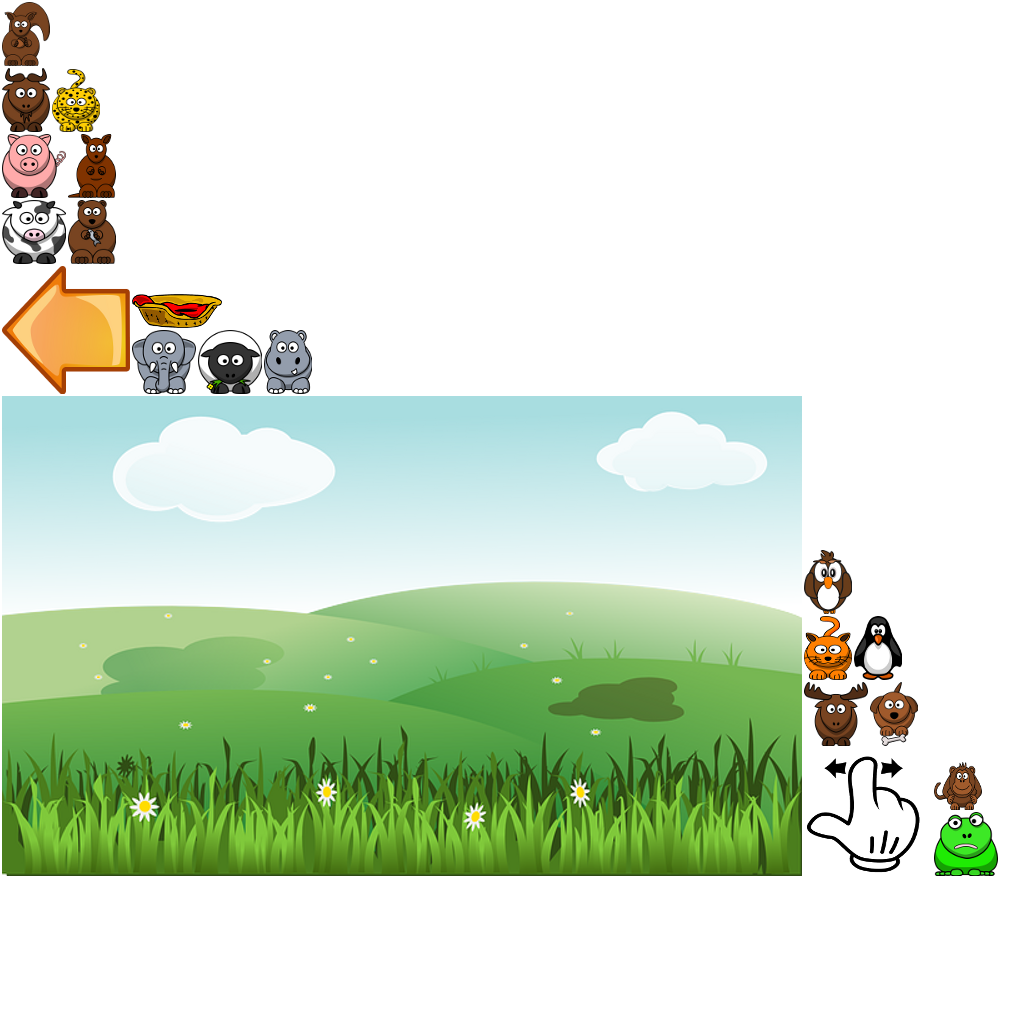
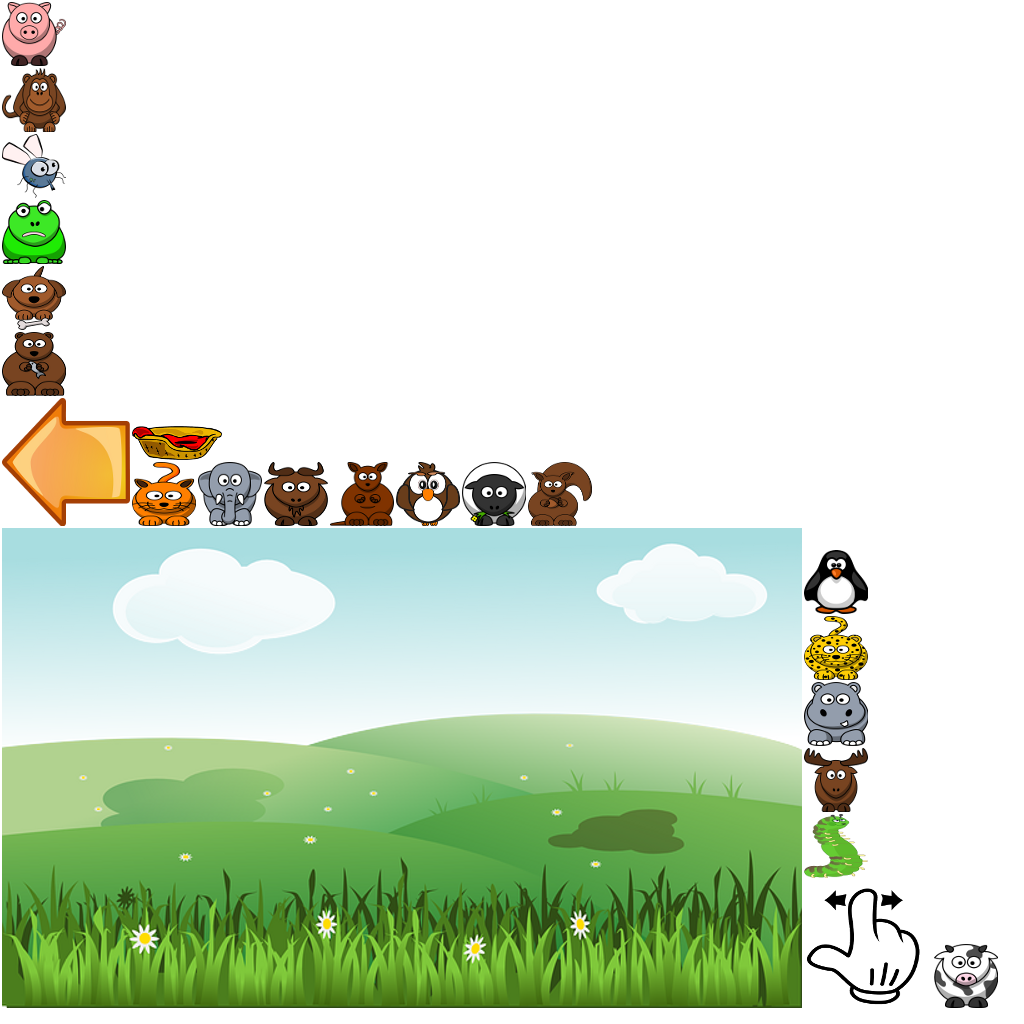
Bug in the game

diff --git a/core/src/com/ricardorb/screens/GameScreen.java b/core/src/com/ricardorb/screens/GameScreen.java
@@ -45,8 +45,10 @@ public class GameScreen implements Screen {
 	private Music rainMusic;
 	private Array<Animal> rainAnimals;
 	private float lastAnimalTime;
+	private float lastBugTime;
 	private int animalsGathered;
 	private Sound animalCatch;
+	private Sound bugCatch;
 	private Stage stage;
 	private TextButton btnX;
 	private Table leftTable;
@@ -63,14 +65,16 @@ public class GameScreen implements Screen {
 	private static final int MAXANIMALSLOST = 5;
 	private int countAnimalLost;
 	private int animalNum;
+	private float elapseTimeAnimal;
 	
-
+	
 	public GameScreen(CatchAnimals game) {
 		mainGame = game;
 		animalNum = 0;
 		animalsForSeconds = 1;
 		countAnimalLost = 0;
 		lastAnimalTime = 0;
+		elapseTimeAnimal = 0.0325f;
 		conBasket = new ControllerBasket();
 		inpBasket = new InputBasket(conBasket, mainGame);
 		basket = new Basket(mainGame, conBasket);
@@ -86,6 +90,7 @@ public class GameScreen implements Screen {
 		camera = new OrthographicCamera();
 		background = new Sprite(Assets.landscape);
 		animalCatch = Gdx.audio.newSound(Gdx.files.internal(Assets.effects + "cow.ogg"));
+		bugCatch = Gdx.audio.newSound(Gdx.files.internal(Assets.effects + "bug.ogg"));
 		rainMusic = Gdx.audio.newMusic(Gdx.files.internal(Assets.music + "rain.mp3"));
 		
 		rainMusic.setLooping(true);
@@ -129,6 +134,7 @@ public class GameScreen implements Screen {
 		animalNum = animalCount;
 		countAnimalLost = 0;
 		lastAnimalTime = 0;
+		elapseTimeAnimal = 0.0325f;
 		conBasket = new ControllerBasket();
 		inpBasket = new InputBasket(conBasket, mainGame);
 		basket = new Basket(mainGame, conBasket);
@@ -144,6 +150,7 @@ public class GameScreen implements Screen {
 		camera = new OrthographicCamera();
 		background = new Sprite(Assets.landscape);
 		animalCatch = Gdx.audio.newSound(Gdx.files.internal(Assets.effects + "cow.ogg"));
+		bugCatch = Gdx.audio.newSound(Gdx.files.internal(Assets.effects + "bug.ogg"));
 		rainMusic = Gdx.audio.newMusic(Gdx.files.internal(Assets.music + "rain.mp3"));
 		
 		rainMusic.setLooping(true);
@@ -198,8 +205,8 @@ public class GameScreen implements Screen {
 		mainGame.batch.begin();
 		background.draw(mainGame.batch);
 		basket.draw(mainGame.batch);
-		for (Animal raindrop : rainAnimals) {
-			raindrop.draw(mainGame.batch);
+		for (Animal animaldown : rainAnimals) {
+			animaldown.draw(mainGame.batch);
 		}
 		mainGame.batch.end();
 
@@ -284,11 +291,15 @@ public class GameScreen implements Screen {
 		labDropsColeccted.setText("Score: " + animalsGathered);
 		labTime.setText("Time: " + (int)timeCounter);
 		// check if we need to create a new rainanimals
-		if (timeCounter - lastAnimalTime >  animalsForSeconds / (timeCounter * 0.0325f)) {
+		if (timeCounter - lastAnimalTime >  animalsForSeconds / (timeCounter * elapseTimeAnimal)) {
 			spawnAnimal();
 		}
+		
+		if(timeCounter - lastBugTime > animalsForSeconds / (timeCounter * 0.01625f)){
+			spawnBug();
+		}
 
-		// move the raindrops, remove any that are beneath the bottom edge
+		// move the animal, remove any that are beneath the bottom edge
 		// of
 		// the screen or that hit the bucket. In the later case we play back
 		// a sound effect as well.
@@ -296,16 +307,21 @@ public class GameScreen implements Screen {
 		while (iter.hasNext()) {
 			Animal animal = iter.next();
 			animal.update();
-			if (animal.getY() + animal.getHeight() < 0) {
+			if ((animal.getY() + animal.getHeight() < 0) && !animal.isBug()) {
 				iter.remove();
 				countAnimalLost++;
 			}
 
 			if (animal.getRectangle().overlaps(basket.getRectangle())) {
-				animalsGathered++;
-				Gdx.input.vibrate(100);
-				animalCatch.play();
-				iter.remove();
+				if (animal.isBug()) {
+					gameState = GameState.GAMEOVER;
+					bugCatch.play();
+				} else {
+					animalsGathered++;
+					Gdx.input.vibrate(100);
+					animalCatch.play();
+					iter.remove();
+				}
 			}
 		}
 	}
@@ -343,9 +359,16 @@ public class GameScreen implements Screen {
 	}
 
 	private void spawnAnimal() {
-		Animal rainAnimal = new Animal(mainGame, Assets.animalsList.get(animalNum));
+		Animal rainAnimal = new Animal(mainGame, Assets.animalsList.get(animalNum), false);
 		rainAnimals.add(rainAnimal);
 		lastAnimalTime = timeCounter;
+	}
+	
+	private void spawnBug(){
+		int bugNum = (int) (Math.random()*Assets.bugList.size());
+		Animal rainBug = new Animal(mainGame, Assets.bugList.get(bugNum), true);
+		rainAnimals.add(rainBug);
+		lastBugTime = timeCounter;
 	}
 	
 	private void resetGame() {
@@ -353,6 +376,7 @@ public class GameScreen implements Screen {
 		timeCounter = 0;
 		animalsGathered = 0;
 		lastAnimalTime = 0;
+		lastBugTime = 0;
 		Iterator<Animal> iter = rainAnimals.iterator();
 		while (iter.hasNext()) {
 			iter.next();

diff --git a/core/src/com/ricardorb/screens/MainMenuScreen.java b/core/src/com/ricardorb/screens/MainMenuScreen.java
@@ -4,10 +4,12 @@ import java.util.ArrayList;
 
 import com.badlogic.gdx.Gdx;
 import com.badlogic.gdx.Screen;
+import com.badlogic.gdx.audio.Sound;
 import com.badlogic.gdx.graphics.GL20;
 import com.badlogic.gdx.graphics.g2d.TextureRegion;
 import com.badlogic.gdx.scenes.scene2d.InputEvent;
 import com.badlogic.gdx.scenes.scene2d.Stage;
+import com.badlogic.gdx.scenes.scene2d.actions.Actions;
 import com.badlogic.gdx.scenes.scene2d.ui.Image;
 import com.badlogic.gdx.scenes.scene2d.ui.Table;
 import com.badlogic.gdx.scenes.scene2d.ui.TextButton;
@@ -26,6 +28,7 @@ public class MainMenuScreen implements Screen {
 	private Image arrowRight;
 	private ArrayList<TextureRegion> animalsList;
 	private int animalCount;
+	private Sound clickSound;
 
 	public MainMenuScreen(final CatchAnimals gam) {
 		//Initialize objects
@@ -55,6 +58,8 @@ public class MainMenuScreen implements Screen {
 		buttonsTable.add(btnExit).size(100f, 50f);
 		
 		stage.addActor(buttonsTable);
+		
+		clickSound = Gdx.audio.newSound(Gdx.files.internal(Assets.effects + "click.ogg"));
 
 		
 		//Buttons events
@@ -76,6 +81,9 @@ public class MainMenuScreen implements Screen {
 			@SuppressWarnings("unchecked")
 			@Override
 			public void clicked(InputEvent event, float x, float y) {
+				arrowLeft.addAction(Actions.sequence(Actions.moveBy(-10f, 0, 0.1f),
+						Actions.moveBy(8f, 0, 0.1f)));
+				clickSound.play();
 				if(animalCount > 0){
 					animalCount--;
 				} else {
@@ -90,6 +98,9 @@ public class MainMenuScreen implements Screen {
 			@SuppressWarnings("unchecked")
 			@Override
 			public void clicked(InputEvent event, float x, float y) {
+				arrowRight.addAction(Actions.sequence(Actions.moveBy(10f, 0, 0.1f),
+						Actions.moveBy(-8f, 0, 0.1f)));
+				clickSound.play();
 				if(animalCount < animalsList.size() - 1){
 					animalCount++;
 				} else {

diff --git a/core/src/com/ricardorb/catchanimals/Assets.java b/core/src/com/ricardorb/catchanimals/Assets.java
@@ -13,7 +13,9 @@ public class Assets {
 	public static TextureRegion cow, bear, cat, elephant, elk, frog;
 	public static TextureRegion gnu, hand, kangaroo, landscape, leopard, monkey;
 	public static TextureRegion owl, pig, sheep, squirrel, arrow;
+	public static TextureRegion housefly, caterpillar;
 	public static ArrayList<TextureRegion> animalsList;
+	public static ArrayList<TextureRegion> bugList;
 	public static Skin skin;
 	public static String effects;
 	public static String music;
@@ -43,6 +45,8 @@ public class Assets {
 		pig = atlas.findRegion("pig");
 		sheep = atlas.findRegion("sheep");
 		squirrel = atlas.findRegion("squirrel");
+		housefly = atlas.findRegion("housefly");
+		caterpillar = atlas.findRegion("caterpillar");
 		arrow = atlas.findRegion("arrow");
 		skin = new Skin(Gdx.files.internal(data + "uiskin.json"));
 		
@@ -61,6 +65,10 @@ public class Assets {
 		animalsList.add(pig);
 		animalsList.add(sheep);
 		animalsList.add(squirrel);
+		
+		bugList = new ArrayList<TextureRegion>();
+		bugList.add(housefly);
+		bugList.add(caterpillar);
 		
 	}
 

diff --git a/core/src/com/ricardorb/sprites/Animal.java b/core/src/com/ricardorb/sprites/Animal.java
@@ -14,11 +14,13 @@ import com.ricardorb.catchanimals.CatchAnimals;
 public class Animal extends Element {
 	
 	private static final int DROPVELX = 300;
+	private boolean bug;
 	
-	public Animal(CatchAnimals game, TextureRegion textureRegion){
+	public Animal(CatchAnimals game, TextureRegion textureRegion, boolean bug){
 		super(textureRegion, game);
 		setX(MathUtils.random(0, game.WINDOWX - getWidth()));
 		setY(game.WINDOWY);
+		this.bug = bug;
 	}
 
 	public void update(){
@@ -29,6 +31,10 @@ public class Animal extends Element {
 
 	public static int getDropvelx() {
 		return DROPVELX;
+	}
+
+	public boolean isBug() {
+		return bug;
 	}
 
 }
